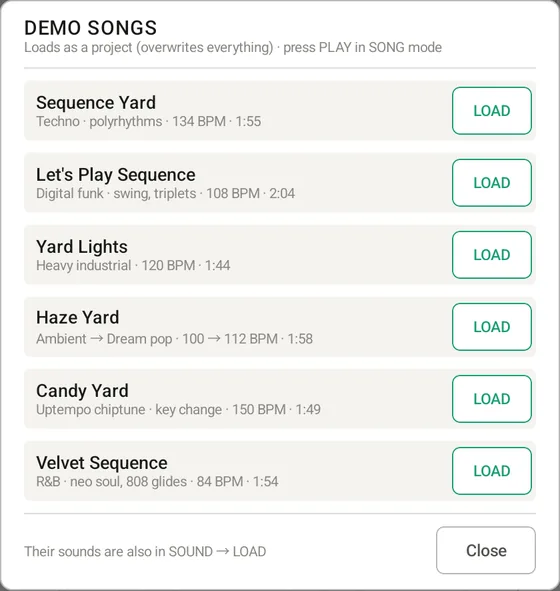
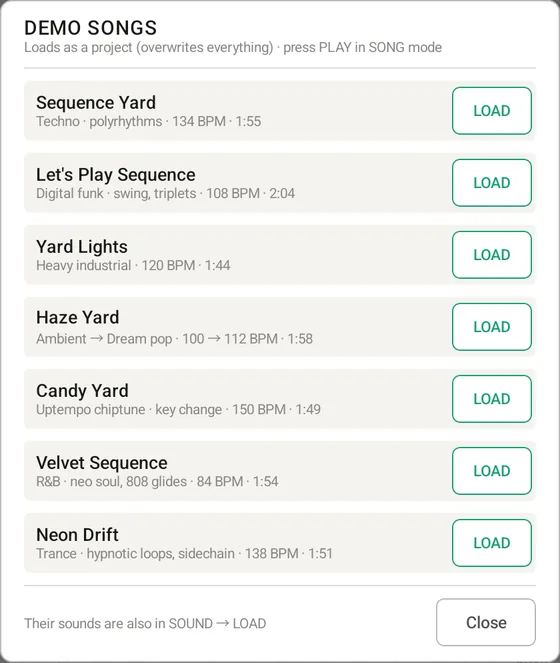
DBR-1 説明書: デモソング 7 曲（Neon Drift）、PRESET の POP、Demo songs の画像
Claude-Session: https://claude.ai/code/session_014nrG8LAda3EPv8TQp5hzGz

diff --git a/dbr1/manual/ja.html b/dbr1/manual/ja.html
@@ -102,7 +102,7 @@
   <li>BANK A の 8 トラック（kick〜tom lo）を使います。入れる先に内容があるときは確認が出ます。↶ で戻せます（TEMPO が GLOBAL のときは BPM は戻りません）。</li>
 </ul>
 <h3 id="demosongs">デモソングを聴く</h3>
-<p>LOAD →「<b>Demo songs…</b>」で、DBR-1 の機能だけで作った 6 曲を読み込めます。読み込んだら PLAY で最後まで流れます（PLAY モードは SONG）。オートメーション（AUTO）、FX シーン、パターンごとのテンポ、ピッチのロックで作ったベースラインなど、どう作られているかを見ながら聴けます。</p>
+<p>LOAD →「<b>Demo songs…</b>」で、DBR-1 の機能だけで作った 7 曲を読み込めます。読み込んだら PLAY で最後まで流れます（PLAY モードは SONG）。オートメーション（AUTO）、FX シーン、パターンごとのテンポ、ピッチのロックで作ったベースラインなど、どう作られているかを見ながら聴けます。</p>
 <div class="cols">
 <figure class="small"><img src="img/demo_songs.webp" alt="Demo songs の画面"><figcaption>Demo songs…</figcaption></figure>
 <div>
@@ -114,10 +114,11 @@
 <tr><td>Haze Yard</td><td>アンビエント（100 BPM）→ ドリームポップ（112 BPM）。海や宇宙のような広い残響の中に、長さの違うミニマルなシーケンス（12・7・5 ステップのアルペジオ・星・ブリップ）を散りばめる。テープのように揺れるディレイ</td></tr>
 <tr><td>Candy Yard</td><td>アップテンポのチップチューン（150 BPM）。昔のゲーム機の音源のように、パルス波・三角波・ノイズだけで作った音（音量は 16 段、音程は 1/60 秒ごとの段々）。速いアルペジオで和音を鳴らし、ピッチのロックでコードを動かす。リードには 3 ステップ遅れのエコー、5 ステップで回る「ピロン」（トラックごとの長さ）、1/16T で転がるタム、最後のサビは 1 音上げて転調</td></tr>
 <tr><td>Velvet Sequence</td><td>R&amp;B / ネオソウル（84 BPM）。レコードのノイズとこもったエレピから始まり、ゆったり跳ねるドラム（SWING 28）、線（AUTO）で音程をすべらせる 808 のベース、パンの線でゆれるエレピ、「ウー」のコーラスとなめらかなリード。2 回目の Aメロはハットが 1/16T で細かく転がる</td></tr>
+<tr><td>Neon Drift</td><td>トランス（138 BPM）。4 つ打ちと 16 分のハット、裏で転がるベースに、6 ステップのスタブ・7 ステップのリム・12 ステップのアシッドがずれながら重なり、同じ形のまま少しずつ表情が変わる催眠的なグルーヴ。ディレイでこだまする声の断片。1 コードのまま引っ張ってから、ブレイクで初めてコード進行とパッドが開き、1/16T のスネアとノイズで持ち上げて全部入りへ。キックでほかを下げるサイドチェイン（FX の MASTER）でうねる</td></tr>
 </table>
 <ul>
   <li>プロジェクトとして読み込むので、今のパターン・キット・BPM はすべて置き換わります（確認が出ます。↶ で戻せます）。残したい内容は先に SAVE してください。</li>
-  <li>曲の音（96 音）は SOUND の LOAD の一覧（DEMO · 曲名）にもあり、自分の曲に使えます。デモソングは最後まで再生すると止まります（SONG タブの → ONCE）。</li>
+  <li>曲の音（112 音）は SOUND の LOAD の一覧（DEMO · 曲名）にもあり、自分の曲に使えます。デモソングは最後まで再生すると止まります（SONG タブの → ONCE）。</li>
 </ul>
 </div>
 </div>
@@ -228,7 +229,7 @@
 <div class="note">再生中に STOP を押すと、鳴っている音はすべて止まります。同じトラックをもう一度鳴らしたときも、前の音は止まります。</div>
 <h3 id="soundbrowser">音の管理画面（LOAD）</h3>
 <p><b>音の管理画面（SOUNDS）</b>が開き、選択中のトラック（左上の「→ A01 …」）に入れる音を探せます。</p>
-<p><b>上のタブ</b>: <b>USER</b>（自分の音 = 保存フォルダの DBR-1/Samples の音声ファイルと DBR-1/Sounds の音）/ <b>PRESET</b>（内蔵の 20 音。BANK A / BANK B / EXTRA）/ <b>DEMO</b>（デモソングの音。曲ごと）。</p>
+<p><b>上のタブ</b>: <b>USER</b>（自分の音 = 保存フォルダの DBR-1/Samples の音声ファイルと DBR-1/Sounds の音）/ <b>PRESET</b>（内蔵の 36 音。BANK A / BANK B / EXTRA / POP）/ <b>DEMO</b>（デモソングの音。曲ごと）。</p>
 <p><b>USER のタブ</b>: ALL / UNSORTED（どのタブにも入れていない音）の右に、自分でタブを作って音を振り分けられます（<b>+ TAB</b> で作る、タブの長押しで名前の変更・並べ替え・削除。タブを消しても音は消えません）。各行の <b>TAB ▾</b> で入れるタブを選びます。</p>
 <p><b>各行</b>: ▶ 試聴（トラックに入れずに原音を鳴らす。もう一度か ■ で止まる）/ 名前（<b>タップでトラックへ</b>。画面は閉じないので続けて聴き比べられます）/ <b>カテゴリ</b>（KICK・SNARE・HAT など。タップで選ぶ・New category… で自由な名前も。決めていない音は名前から推測したカテゴリを薄く表示）/ <b>KEY</b>（音の高さ。例: E2・C#5、和音は Dm9 など、音程のはっきりしない打楽器・環境音・ノイズは UNKNOWN。内蔵の音は作ったときの音名、自分の音は DBR-1 が音を調べて推定したキーを薄く表示（初めて開いたときに順に調べます。「…」は調べている途中）。タップでキーの画面: チューナー（推定の音名・ずれ（セント）・周波数）と <b>Use …</b>（オススメのキーにする）、OCTAVE と 12 音のボタン、UNKNOWN、Chord / other…（和音などを入力）、Auto（決めたキーを消して推定に戻す）。決めたキーは濃い色）/ 形式（WAV・MP3・AIFF など、DBRSND = サンプルと音の設定）/ <b>お気に入り度 ★1〜5</b>（同じ ★ をもう一度で 0）/ USER は ⋯ で共有・削除。</p>
 <p><b>絞り込み</b>: Search（名前・カテゴリ・グループ。キーは C#5 のように完全に一致したもの）/ CATEGORY / FORMAT / ★（★n 以上）/ SORT（並び: 一覧の順・名前・お気に入り度・カテゴリ・キー（低い音から）・新しい順）。</p>
@@ -684,8 +685,8 @@
 <tr><td>サンプリング</td><td>内蔵マイク / USB の入力機器 / DBR-1 自身の出力（リサンプリング、BARS 1〜8 小節・PAD の単音は最長 10 秒）から 60 秒まで（48kHz、モノラル。ステレオは L+R / L / R、3ch 以上の機器はチャンネルの番号で選ぶ）。スライス最大 16、タイムストレッチ 50〜200%（音の高さはそのまま）。WAV（16bit、RATE で 8〜32kHz にも）で保存。BIT 12 / 8 も選べる</td></tr>
 <tr><td>チャンネル</td><td>モノラルで再生（ステレオは左右を合わせる）</td></tr>
 <tr><td>メモリ</td><td>16bit で保持。メモリにあるのは今のキットの音だけ（16 音）</td></tr>
-<tr><td>内蔵の音</td><td>116 音（キット 16 音 + 追加 4 音（44.1kHz / 24bit）、デモソングの音 96 音（44.1kHz / 16bit））。音程のある 43 音に音名・コード名を表示（A4 = 440Hz）</td></tr>
-<tr><td>デモソング</td><td>6 曲（Sequence Yard / Let's Play Sequence / Yard Lights / Haze Yard / Candy Yard / Velvet Sequence、各 約 2 分）</td></tr>
+<tr><td>内蔵の音</td><td>148 音（キット 16 音 + 追加 4 音（44.1kHz / 24bit）、POP 16 音・デモソングの音 112 音（44.1kHz / 16bit））。音程のある 56 音に音名・コード名を表示（A4 = 440Hz）</td></tr>
+<tr><td>デモソング</td><td>7 曲（Sequence Yard / Let's Play Sequence / Yard Lights / Haze Yard / Candy Yard / Velvet Sequence / Neon Drift、各 約 2 分）</td></tr>
 <tr><td>同時発音</td><td>トラックごとに 1 音（次の音で前の音を短くフェードして止める）</td></tr>
 <tr><td>鳴り方</td><td>ONE SHOT / GATE（1 ステップ）/ BAR（パターンの終わりまで）。STOP で全音停止</td></tr>
 <tr><td>チョークグループ</td><td>4 つ（同じグループの音が鳴ると約 5ms で止める）</td></tr>

diff --git a/dbr1/manual/en.html b/dbr1/manual/en.html
@@ -102,7 +102,7 @@
   <li>Templates use the 8 tracks of BANK A (kick to tom lo). You are asked before anything is overwritten. Undo (↶) brings them back (with TEMPO set to GLOBAL, the BPM is not undone).</li>
 </ul>
 <h3 id="demosongs">Listen to the demo songs</h3>
-<p>LOAD → “<b>Demo songs…</b>” loads six songs made only with DBR-1's own features. Press PLAY to hear them all the way through (PLAY mode is SONG). You can watch how they are built while they play: automation (AUTO), FX scenes, per-pattern tempo, basslines made with pitch locks and more.</p>
+<p>LOAD → “<b>Demo songs…</b>” loads seven songs made only with DBR-1's own features. Press PLAY to hear them all the way through (PLAY mode is SONG). You can watch how they are built while they play: automation (AUTO), FX scenes, per-pattern tempo, basslines made with pitch locks and more.</p>
 <div class="cols">
 <figure class="small"><img src="img/demo_songs.webp" alt="Demo songs dialog"><figcaption>Demo songs…</figcaption></figure>
 <div>
@@ -114,10 +114,11 @@
 <tr><td>Haze Yard</td><td>Ambient (100 BPM) → dream pop (112 BPM). Minimal, poppy sequences of different lengths (an arpeggio, stars and blips looping every 12, 7 and 5 steps) scattered across a vast, ocean- or space-like reverb, with a tape-like wobbling delay</td></tr>
 <tr><td>Candy Yard</td><td>Uptempo chiptune (150 BPM). Every sound is made like an old game console's sound chip: only pulse waves, a triangle wave and noise, with 16 volume levels and pitch that moves in 1/60-second steps. Fast arpeggios play the chords, moved with pitch locks. The lead has an echo 3 steps behind, a "pickup" blip loops every 5 steps (per-track length), a tom rolls in 1/16T, and the final chorus jumps up a whole step</td></tr>
 <tr><td>Velvet Sequence</td><td>R&amp;B / neo soul (84 BPM). Opens with vinyl crackle and a muffled electric piano, then a lazy, swung groove (SWING 28), an 808 bass whose pitch glides along a drawn line (AUTO), a tremolo electric piano (a pan line), an "ooh" choir and a smooth lead. The second verse rolls its hi-hats in 1/16T</td></tr>
+<tr><td>Neon Drift</td><td>Trance (138 BPM). Over a four-on-the-floor kick, 16th hi-hats and a rolling off-beat bass, a stab looping every 6 steps, a rim every 7 and an acid line every 12 drift against each other: a hypnotic groove that keeps the same shape yet slowly changes. Fragments of a voice echo through the delay. It stays on one chord for a long time, then the breakdown finally opens up a chord progression and pads, a 1/16T snare roll and a noise sweep lift it, and everything comes in. A sidechain from the kick (FX → MASTER) makes the whole mix pump</td></tr>
 </table>
 <ul>
   <li>A demo song loads as a project, so it replaces all patterns, the kit and the BPM (you are asked first, and ↶ brings them back). Save your work first if you want to keep it.</li>
-  <li>The 96 sounds of the songs are also in the SOUND tab's LOAD list (DEMO · song name), ready for your own tracks. The demo songs stop at the end (→ ONCE in the SONG tab).</li>
+  <li>The 112 sounds of the songs are also in the SOUND tab's LOAD list (DEMO · song name), ready for your own tracks. The demo songs stop at the end (→ ONCE in the SONG tab).</li>
 </ul>
 </div>
 </div>
@@ -228,7 +229,7 @@
 <div class="note">Pressing STOP during playback silences everything that is playing. Playing the same track again also stops its previous sound.</div>
 <h3 id="soundbrowser">Sound browser (LOAD)</h3>
 <p>Opens the <b>sound browser (SOUNDS)</b>, where you find a sound for the selected track (shown at the top left as "→ A01 …").</p>
-<p><b>Top tabs</b>: <b>USER</b> (your own sounds: the audio files in DBR-1/Samples and the sounds in DBR-1/Sounds) / <b>PRESET</b> (the 20 built-in sounds: BANK A / BANK B / EXTRA) / <b>DEMO</b> (the demo songs' sounds, by song).</p>
+<p><b>Top tabs</b>: <b>USER</b> (your own sounds: the audio files in DBR-1/Samples and the sounds in DBR-1/Sounds) / <b>PRESET</b> (the 36 built-in sounds: BANK A / BANK B / EXTRA / POP) / <b>DEMO</b> (the demo songs' sounds, by song).</p>
 <p><b>USER tabs</b>: after ALL and UNSORTED (sounds in no tab) you can make your own tabs and sort sounds into them (<b>+ TAB</b> to add; long-press a tab to rename, move or delete it — deleting a tab keeps its sounds). Choose a sound's tab with <b>TAB ▾</b> on its row.</p>
 <p><b>Each row</b>: ▶ preview (plays the raw sound without loading it; tap again or ■ to stop) / name (<b>tap to load it into the track</b>; the browser stays open so you can compare) / <b>category</b> (KICK, SNARE, HAT, …; tap to choose, or New category… for your own name; a sound without one shows a faint guess from its name) / <b>KEY</b> (the pitch, e.g. E2 or C#5; chords such as Dm9; UNKNOWN for drums, ambience and noise without a clear pitch. Built-in sounds show the note they were made at; your own sounds show, faintly, the key DBR-1 detected by listening to them — they are checked one by one the first time, "…" while in progress. Tap it to open the key picker: a tuner (detected note, offset in cents, frequency) with <b>Use …</b> for the suggested key, OCTAVE and 12 note buttons, UNKNOWN, Chord / other… to type a chord, and Auto to clear your key and go back to the detected one. Keys you set are shown in a strong colour) / format (WAV, MP3, AIFF, …; DBRSND = sample plus settings) / <b>rating ★1–5</b> (tap the same star again for 0) / for USER, ⋯ to share or delete.</p>
 <p><b>Filters</b>: Search (name, category or group; a key only on an exact match such as C#5) / CATEGORY / FORMAT / ★ (n stars or more) / SORT (list order, name, rating, category, key from low to high, newest).</p>
@@ -684,8 +685,8 @@
 <tr><td>Sampling</td><td>Built-in mic / USB input / DBR-1's own output (resampling, BARS 1–8, PAD one-shots up to 10 s), up to 60 seconds (48 kHz, mono; stereo inputs as L+R / L / R, devices with 3+ channels by channel number). Saved as 16-bit WAV (RATE can lower it to 8–32 kHz; BIT 12 / 8 also available). Up to 16 slices; time stretch 50–200% (pitch unchanged)</td></tr>
 <tr><td>Channels</td><td>Played as mono (stereo files are mixed down)</td></tr>
 <tr><td>Memory</td><td>Held as 16-bit; only the sounds of the current kit (16) stay in memory</td></tr>
-<tr><td>Built-in sounds</td><td>116 (16 in the kit + 4 extra, 44.1 kHz / 24-bit; 96 from the demo songs, 44.1 kHz / 16-bit). The 43 pitched ones show a note or chord name (A4 = 440 Hz)</td></tr>
-<tr><td>Demo songs</td><td>6 (Sequence Yard / Let's Play Sequence / Yard Lights / Haze Yard / Candy Yard / Velvet Sequence, about 2 minutes each)</td></tr>
+<tr><td>Built-in sounds</td><td>148 (16 in the kit + 4 extra, 44.1 kHz / 24-bit; 16 in POP and 112 from the demo songs, 44.1 kHz / 16-bit). The 56 pitched ones show a note or chord name (A4 = 440 Hz)</td></tr>
+<tr><td>Demo songs</td><td>7 (Sequence Yard / Let's Play Sequence / Yard Lights / Haze Yard / Candy Yard / Velvet Sequence / Neon Drift, about 2 minutes each)</td></tr>
 <tr><td>Polyphony</td><td>One sound per track (a new hit quickly fades out the previous one)</td></tr>
 <tr><td>Play modes</td><td>ONE SHOT / GATE (one step) / BAR (until the end of the pattern); STOP silences everything</td></tr>
 <tr><td>Choke groups</td><td>4 (a sound in the group stops the others within about 5 ms)</td></tr>
